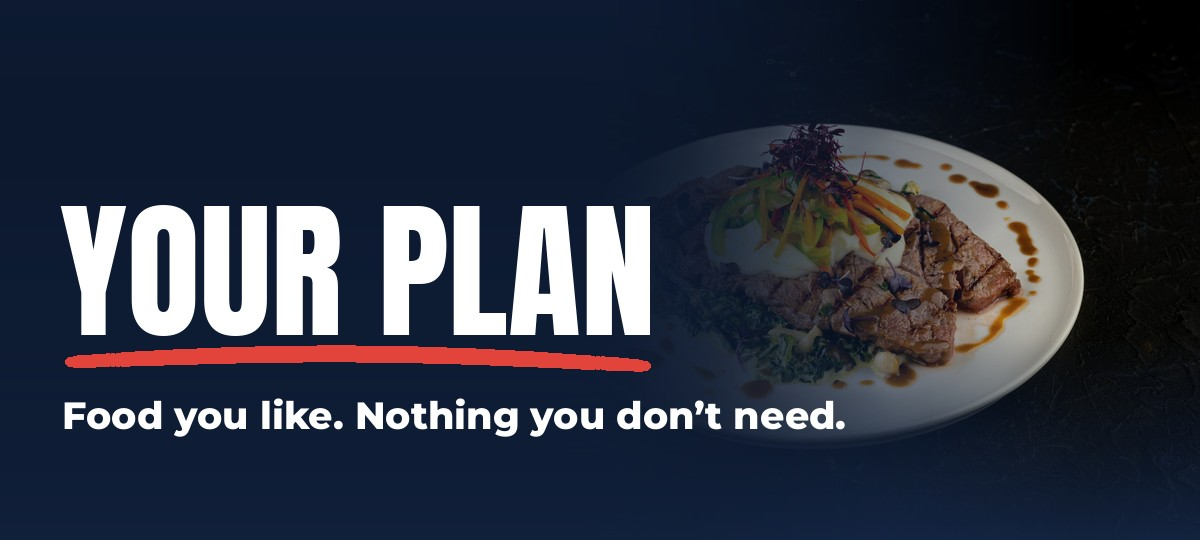
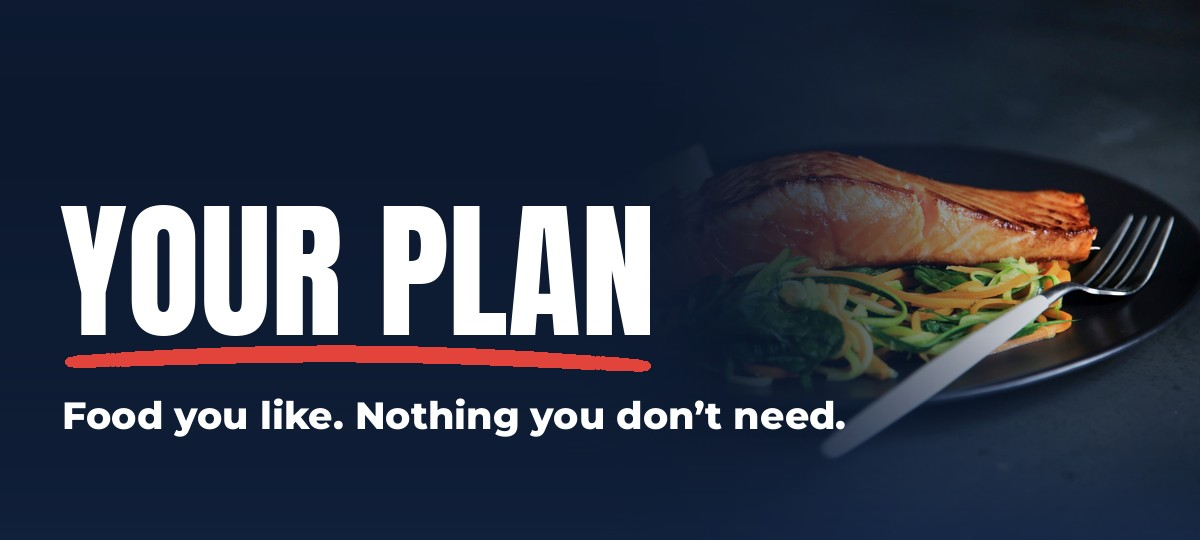
Plan header: salmon on black plate; Stack header from real product photos; Train cover shows a different exercise than Today
Claude-Session: https://claude.ai/code/session_01Bf86E4ucw6eJutAMhaLVMs

Changed region(s): [[0.5858, 0.0, 1.0, 0.9185]]

diff --git a/src/components/WorkoutPreview.tsx b/src/components/WorkoutPreview.tsx
@@ -10,9 +10,10 @@ import { MuscleChips, Stat } from './WorkoutBits';
  * The big workout card: form-video still on top, the stats, every exercise
  * (thumbnail, sets × reps, muscle), then one button to start.
  */
-export default function WorkoutPreview({ meta: w, badge, cta, done, onPress, maxRows = 99 }: {
-  meta: DayMeta; badge: string; cta: string; done?: boolean; onPress: () => void; maxRows?: number;
+export default function WorkoutPreview({ meta: w, badge, cta, done, onPress, maxRows = 99, cover = 0 }: {
+  meta: DayMeta; badge: string; cta: string; done?: boolean; onPress: () => void; maxRows?: number; cover?: number;
 }) {
+  const coverItem = w.items[Math.min(cover, w.items.length - 1)] || w.items[0];
   const { width } = useWindowDimensions();
   const cw = Math.min(width, 520) - 40;
   const ih = Math.round(cw * 9 / 16);
@@ -22,7 +23,7 @@ export default function WorkoutPreview({ meta: w, badge, cta, done, onPress, max
     <Pressable accessibilityRole="button" accessibilityLabel={`${cta}: ${w.type}, ${w.items.length} exercises`}
       onPress={onPress} style={({ pressed }) => [st.card, { transform: [{ scale: pressed ? 0.99 : 1 }] }]}>
       <View style={{ width: cw, height: ih }}>
-        {!!w.items[0]?.video && <Image source={thumb(w.items[0].video, 'hq')} style={{ width: cw, height: ih }} resizeMode="cover" accessibilityIgnoresInvertColors />}
+        {!!coverItem?.video && <Image source={thumb(coverItem.video, 'hq')} style={{ width: cw, height: ih }} resizeMode="cover" accessibilityIgnoresInvertColors />}
         <LinearGradient colors={['rgba(13,27,51,0.15)', 'rgba(13,27,51,0.35)', C.navy2]} locations={[0, 0.5, 1]}
           style={{ position: 'absolute', left: 0, top: 0, width: cw, height: ih }} />
         <View style={[st.badge, done && { backgroundColor: C.green }]}><Text style={st.badgeText}>{badge}</Text></View>

diff --git a/app/(tabs)/train.tsx b/app/(tabs)/train.tsx
@@ -61,7 +61,7 @@ export default function Train() {
         </View>
 
         <WorkoutPreview meta={metas[index]} badge={isToday ? "Today's workout" : `Up next · ${metas[index].day}`}
-          cta={isToday ? 'Start workout' : 'Preview workout'} onPress={() => go(index)} maxRows={4} />
+          cta={isToday ? 'Start workout' : 'Preview workout'} onPress={() => go(index)} maxRows={4} cover={1} />
       </View>
     }>
       <Text style={st.listTitle}>All {plan.train.d.length} workouts</Text>

diff --git a/tools/make_stack_header.py b/tools/make_stack_header.py
@@ -1,0 +1,40 @@
+import sys; sys.argv=['x']
+exec(open('headers.py').read().split("if __name__ == '__main__':")[0])
+import numpy as np
+IMG='/home/claude/sps-app/assets/img/'
+def load(n,h):
+    im=Image.open(IMG+n+'.png').convert('RGBA'); im=im.crop(im.getbbox())
+    return im.resize((int(im.width*h/im.height),h),Image.LANCZOS)
+def shadowed(c,im,x,base,blur=18,op=150):
+    sh=Image.new('RGBA',c.size,(0,0,0,0)); d=ImageDraw.Draw(sh)
+    d.ellipse([x-im.width*0.48,base-16,x+im.width*0.48,base+16],fill=(0,0,0,op)); c.alpha_composite(sh.filter(ImageFilter.GaussianBlur(blur)))
+    c.alpha_composite(im,(int(x-im.width/2),base-im.height))
+def dim(im,f=0.45,blur=2):
+    a=im.getchannel('A'); rgb=Image.eval(im.convert('RGB'),lambda v:int(v*f)); out=rgb.convert('RGBA'); out.putalpha(a); return out.filter(ImageFilter.GaussianBlur(blur))
+c=Image.new('RGBA',(W,H),NAVY+(255,))
+# spotlight glow behind the products (right side)
+g=Image.new('L',(W,H),0); ImageDraw.Draw(g).ellipse([660,-40,1300,500],fill=255); g=g.filter(ImageFilter.GaussianBlur(120))
+c=Image.composite(Image.new('RGBA',(W,H),(40,66,112,255)),c,g)
+# floor line
+fl=Image.new('RGBA',(W,H),(0,0,0,0)); ImageDraw.Draw(fl).ellipse([480,400,1300,520],fill=(255,255,255,18)); c.alpha_composite(fl.filter(ImageFilter.GaussianBlur(30)))
+# back row: the hype you cut (dimmed)
+base_back=400
+for n,x,h in [('hydroxycut',770,200),('c4',850,215),('ag1',1075,205),('xtend',1150,210)]:
+    shadowed(c,dim(load(n,h)),x,base_back,op=90)
+# front row: the stack that works
+for n,x,h in [('creatine',820,245),('whey',968,290),('coffee',1108,248)]:
+    shadowed(c,load(n,h),x,455)
+# left-side fade so the text sits on clean navy
+x=np.linspace(0,1,W); a=np.clip((x-0.52)/0.12,0,1)
+alpha=Image.fromarray(np.repeat((a*255).astype('uint8')[None,:],H,0))
+base=Image.new('RGBA',(W,H),NAVY+(255,))
+c=Image.composite(c,base,alpha)
+# bottom fade into card colour
+yy=np.linspace(0,1,H)[:,None]; b=np.clip((yy-0.80)/0.2,0,1)
+c=Image.composite(Image.new('RGBA',(W,H),NAVY2+(255,)),c,Image.fromarray(np.repeat((b*255).astype('uint8'),W,1)))
+d=ImageDraw.Draw(c)
+f=anton(140); y=205
+d.text((60,y),'THE STACK',font=f,fill=(255,255,255),anchor='lt'); bb=d.textbbox((60,y),'THE STACK',font=f,anchor='lt')
+brush(c,70,bb[2]-10,bb[3]+24); d=ImageDraw.Draw(c)
+d.text((62,bb[3]+60),'Only what works. Nothing else.',font=mont(800,38),fill=(255,255,255),anchor='lt')
+c.convert('RGB').save('hdr/stack_photo.jpg',quality=90)
